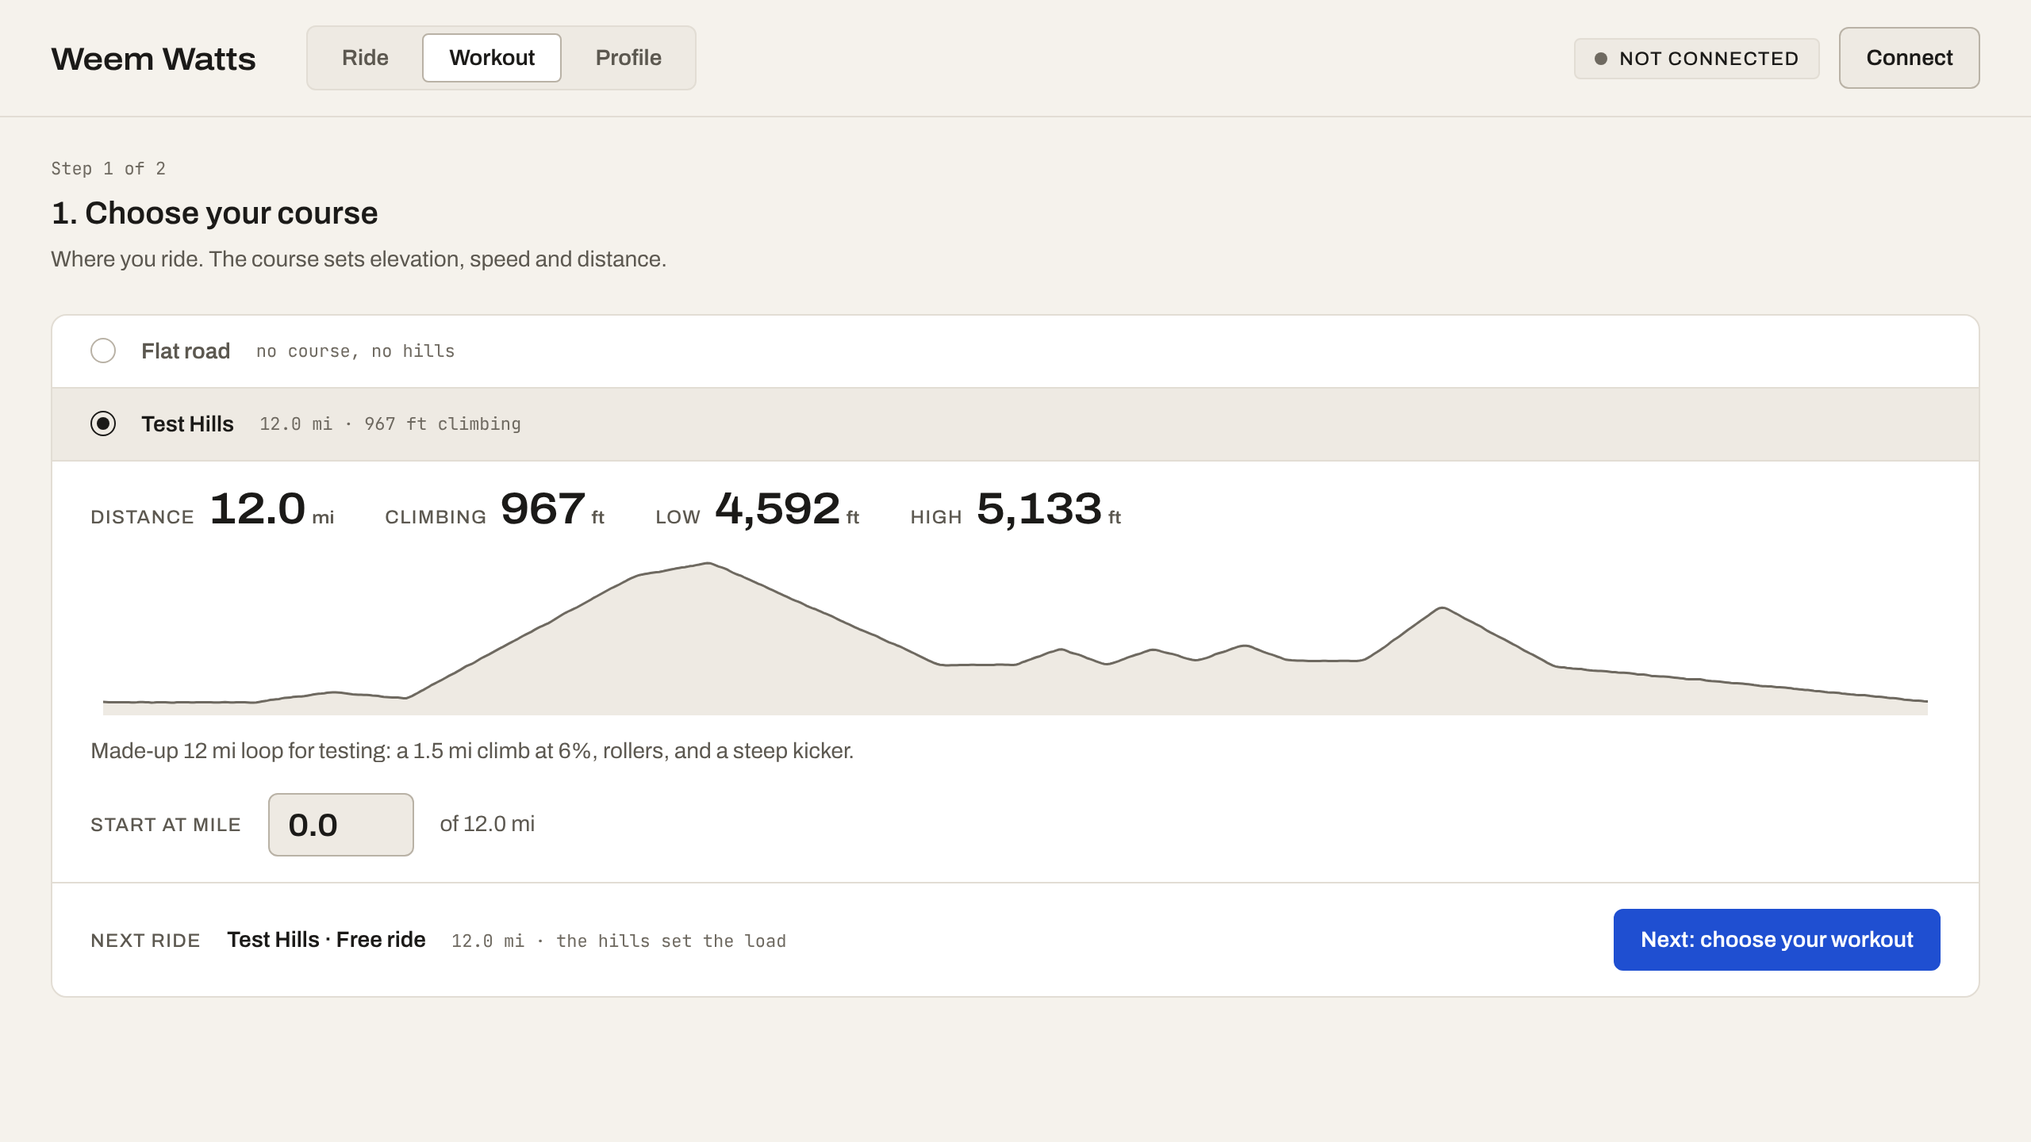
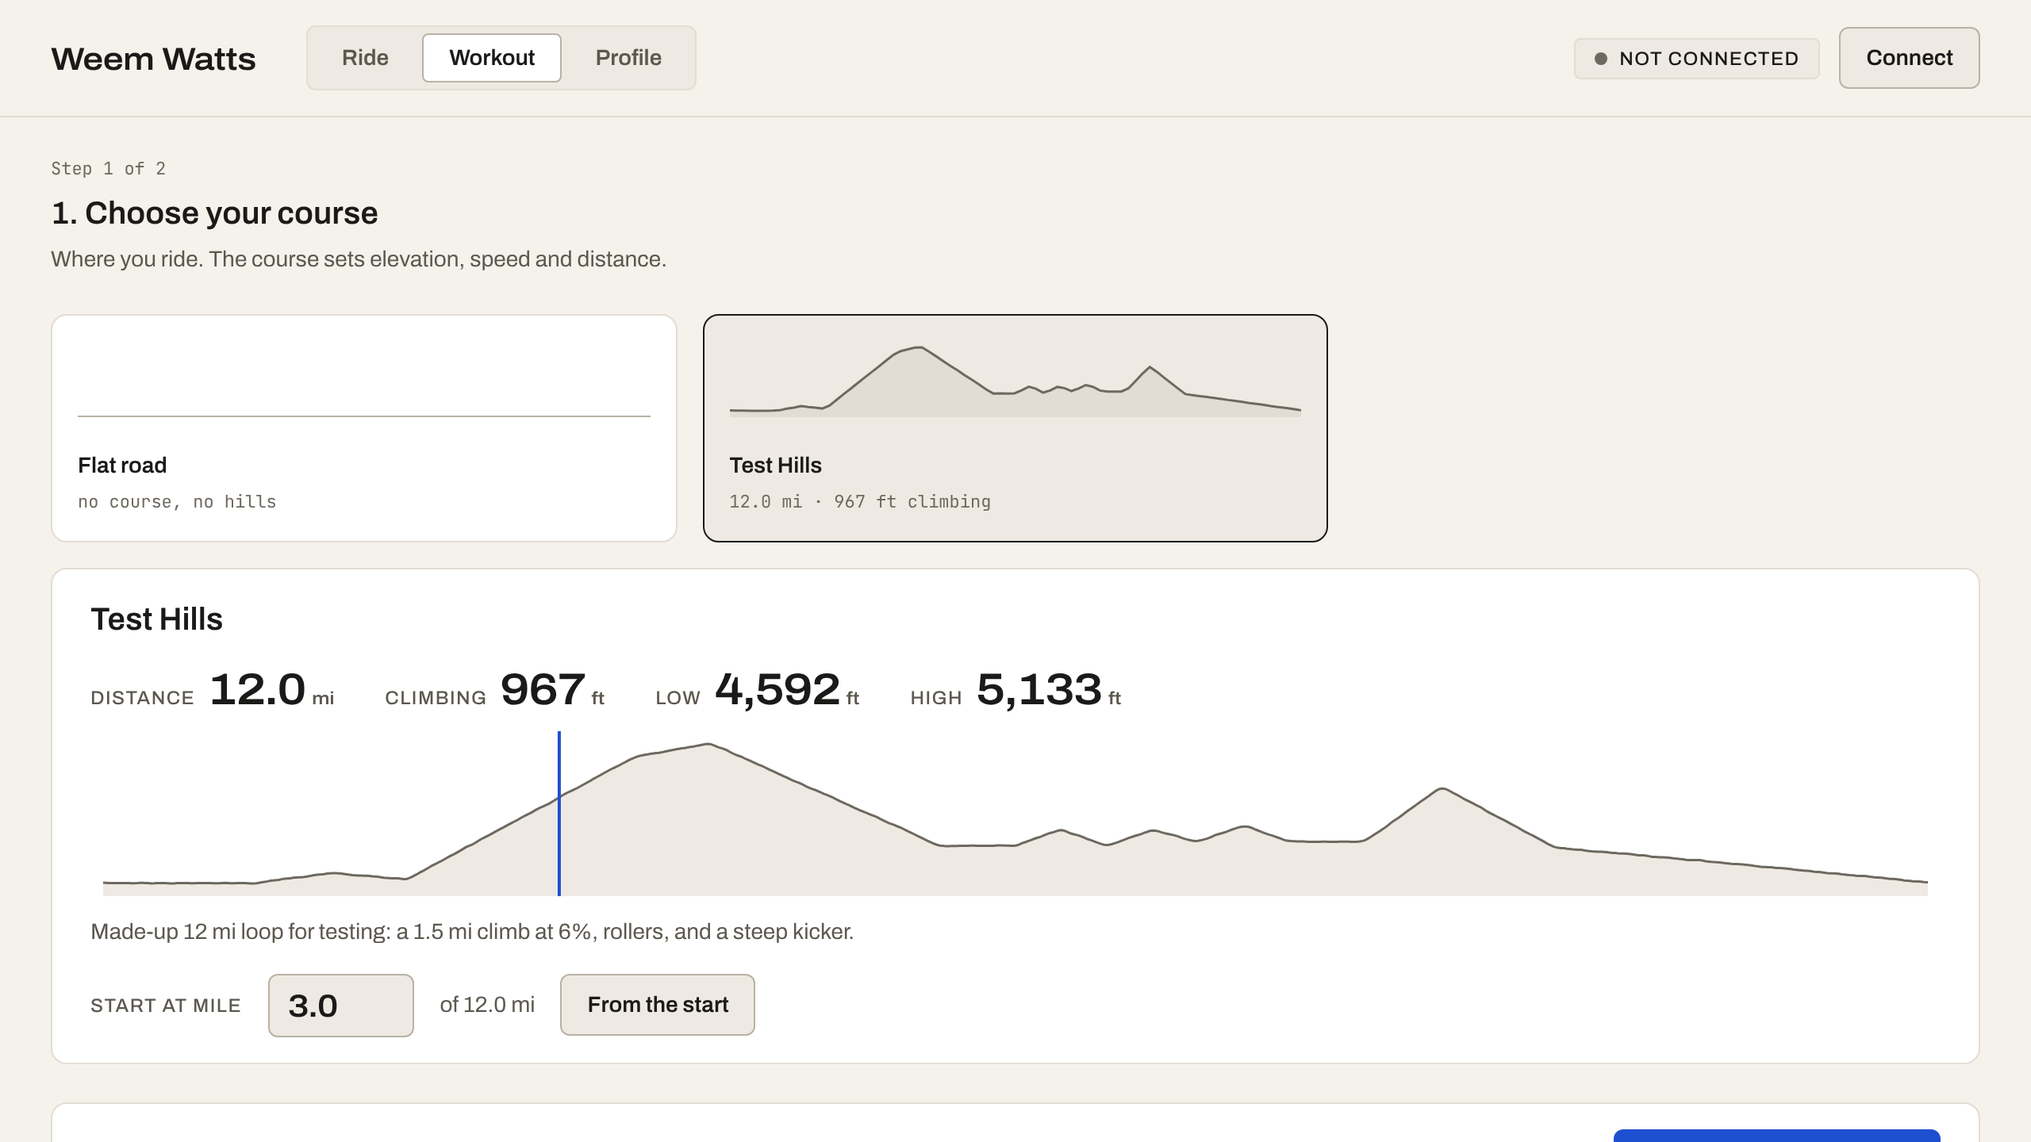
Course cards on step 1 of the Workout tab
Flat road and each course are cards with a small elevation profile, miles
and climbing, matching the workout library. The selected course's overview
and start mile show in a panel under the grid. PickerRow is no longer used
and is removed. DESIGN.md and README updated.

Claude-Session: https://claude.ai/code/session_01Fy45Q5RpT8Z5DRRNkBTc4N

diff --git a/src/components/CoursePicker.tsx b/src/components/CoursePicker.tsx
@@ -3,7 +3,30 @@ import { METERS_PER_MILE } from '../lib/physics'
 import type { CourseLive, CourseOption } from '../lib/ride'
 import { Button } from './Button'
 import { CourseOverview } from './CourseOverview'
-import { PickerRow } from './PickerRow'
+
+const CARD = 'ww-press flex min-h-[9rem] cursor-pointer flex-col justify-between gap-3 rounded-lg border p-4 text-left'
+/** Keep a near-flat course from looking like a mountain on its card. */
+const MIN_RANGE_M = 15
+
+/** The course's elevation as a small filled line, the course twin of the workout card's strip. */
+function CardProfile({ points, onRaised }: { points: [number, number][]; onRaised: boolean }) {
+  const last = points[points.length - 1]?.[0] || 1
+  let lo = Infinity
+  let hi = -Infinity
+  for (const [, e] of points) {
+    lo = Math.min(lo, e)
+    hi = Math.max(hi, e)
+  }
+  const range = Math.max(MIN_RANGE_M, hi - lo)
+  const base = lo - (range - (hi - lo)) / 2
+  const line = points.map(([s, e], i) => `${i === 0 ? 'M' : 'L'}${((s / last) * 100).toFixed(2)},${(44 - ((e - base) / range) * 40).toFixed(2)}`).join('')
+  return (
+    <svg viewBox="0 0 100 48" preserveAspectRatio="none" className="ww-profile-compact block w-full" aria-hidden>
+      <path d={`${line}L100,48L0,48Z`} fill={onRaised ? 'var(--ww-line)' : 'var(--ww-raised)'} />
+      <path d={line} fill="none" stroke="var(--ww-fg-subtle)" strokeWidth={1.5} vectorEffect="non-scaling-stroke" />
+    </svg>
+  )
+}
 
 interface CoursePickerProps {
   courses: CourseOption[]
@@ -13,7 +36,10 @@ interface CoursePickerProps {
   onStartMi: (mi: number) => void
 }
 
-/** Step 1 on the Workout tab: a flat road or a course. The selected course opens its overview and start mile. */
+/**
+ * Step 1 on the Workout tab: a flat road or a course, as cards with a small
+ * elevation profile. The selected course's overview and start mile show under the grid.
+ */
 export function CoursePicker({ courses, loaded, selected, onSelect, onStartMi }: CoursePickerProps) {
   const [startText, setStartText] = useState('')
   const startMi = selected?.startMi ?? 0
@@ -31,54 +57,80 @@ export function CoursePicker({ courses, loaded, selected, onSelect, onStartMi }:
   const lengthMi = selected ? selected.course.lengthM / METERS_PER_MILE : 0
 
   return (
-    <div role="radiogroup" aria-label="Course">
-      <PickerRow checked={!selected} onClick={() => onSelect(null)} title="Flat road" meta="no course, no hills" />
-      {!loaded && <div className="border-t border-line px-6 py-3 text-fg-subtle">Loading courses</div>}
-      {courses.map((c) => (
-        <PickerRow
-          key={c.id}
-          checked={selected?.course.id === c.id}
-          onClick={() => onSelect(c.id)}
-          title={c.name}
-          meta={`${c.lengthMi.toFixed(1)} mi · ${Math.round(c.ascentFt).toLocaleString()} ft climbing${
-            c.source === 'imported' ? ' · imported' : ''
-          }`}
+    <div className="flex flex-col gap-4">
+      <div role="radiogroup" aria-label="Course" className="grid grid-cols-2 gap-4 xl:grid-cols-3 2xl:grid-cols-4">
+        <button
+          type="button"
+          role="radio"
+          aria-checked={!selected}
+          aria-label="Flat road, no course, no hills"
+          onClick={() => onSelect(null)}
+          className={`${CARD} ${!selected ? 'border-fg bg-raised' : 'border-line bg-surface hover:bg-bg'}`}
         >
-          {selected?.course.id === c.id && (
-            <div className="flex flex-col gap-4">
-              <CourseOverview course={selected.course} startMi={startMi} />
-              <div className="flex flex-wrap items-center gap-4">
-                <label htmlFor="start-mi" className="ww-label">
-                  Start at mile
-                </label>
-                <input
-                  id="start-mi"
-                  type="number"
-                  inputMode="decimal"
-                  min={0}
-                  max={Math.max(0, lengthMi - 0.1)}
-                  step={0.1}
-                  value={startText}
-                  onChange={(e) => setStartText(e.target.value)}
-                  onBlur={commitStart}
-                  onKeyDown={(e) => {
-                    if (e.key === 'Enter') (e.target as HTMLInputElement).blur()
-                    e.stopPropagation()
-                  }}
-                  className="ww-num w-[7ch] rounded-md border border-line-strong bg-raised px-3 py-2 text-title text-fg"
-                />
-                <span className="text-fg-muted">of {lengthMi.toFixed(1)} mi</span>
-                {startMi > 0 && <Button onClick={() => onStartMi(0)}>From the start</Button>}
-                {selected.lastEndMi !== null && (
-                  <span className="font-mono text-mono text-fg-subtle">
-                    last ride ended at mile {selected.lastEndMi.toFixed(1)}
-                  </span>
-                )}
-              </div>
-            </div>
-          )}
-        </PickerRow>
-      ))}
+          <span className="ww-profile-compact flex items-end">
+            <span className="w-full border-b border-line-strong" />
+          </span>
+          <span className="flex flex-col gap-1">
+            <span className="font-semibold text-fg">Flat road</span>
+            <span className="font-mono text-mono text-fg-subtle">no course, no hills</span>
+          </span>
+        </button>
+        {courses.map((c) => {
+          const checked = selected?.course.id === c.id
+          return (
+            <button
+              key={c.id}
+              type="button"
+              role="radio"
+              aria-checked={checked}
+              onClick={() => onSelect(c.id)}
+              className={`${CARD} ${checked ? 'border-fg bg-raised' : 'border-line bg-surface hover:bg-bg'}`}
+            >
+              <CardProfile points={c.profile} onRaised={checked} />
+              <span className="flex min-w-0 flex-col gap-1">
+                <span className="truncate font-semibold text-fg">{c.name}</span>
+                <span className="truncate font-mono text-mono text-fg-subtle">
+                  {c.lengthMi.toFixed(1)} mi · {Math.round(c.ascentFt).toLocaleString()} ft climbing
+                  {c.source === 'imported' ? ' · imported' : ''}
+                </span>
+              </span>
+            </button>
+          )
+        })}
+      </div>
+      {!loaded && <p className="text-fg-subtle">Loading courses</p>}
+      {selected && (
+        <section aria-label="Course overview" className="flex flex-col gap-4 rounded-lg border border-line bg-surface px-6 py-4">
+          <h2 className="text-title font-semibold text-fg">{selected.course.name}</h2>
+          <CourseOverview course={selected.course} startMi={startMi} />
+          <div className="flex flex-wrap items-center gap-4">
+            <label htmlFor="start-mi" className="ww-label">
+              Start at mile
+            </label>
+            <input
+              id="start-mi"
+              type="number"
+              inputMode="decimal"
+              min={0}
+              max={Math.max(0, lengthMi - 0.1)}
+              step={0.1}
+              value={startText}
+              onChange={(e) => setStartText(e.target.value)}
+              onBlur={commitStart}
+              onKeyDown={(e) => {
+                if (e.key === 'Enter') (e.target as HTMLInputElement).blur()
+                e.stopPropagation()
+              }}
+              className="ww-num w-[7ch] rounded-md border border-line-strong bg-raised px-3 py-2 text-title text-fg"
+            />
+            <span className="text-fg-muted">of {lengthMi.toFixed(1)} mi</span>
+            {startMi > 0 && <Button onClick={() => onStartMi(0)}>From the start</Button>}
+            {selected.lastEndMi !== null && (
+              <span className="font-mono text-mono text-fg-subtle">last ride ended at mile {selected.lastEndMi.toFixed(1)}</span>
+            )}
+          </div>
+        </section>
+      )}
     </div>
   )
 }

diff --git a/src/lib/ride.ts b/src/lib/ride.ts
@@ -32,7 +32,7 @@ import {
   type SmoothingSeconds,
 } from '../config'
 import { bluetoothSupported, createBleTrainer } from './ble'
-import { elevationAt, gradeAt, type Course } from './course'
+import { elevationAt, gradeAt, type Course , profilePoints } from './course'
 import { importGpxFile, loadCourses, removeImportedCourse } from './courses'
 import { createFakeTrainer, isFakeMode } from './fakeTrainer'
 import { downloadFit } from './fit'
@@ -121,6 +121,19 @@ export interface CourseOption {
   description?: string
   lengthMi: number
   ascentFt: number
+  /** A light elevation profile, [meters along, meters up] pairs, for the small graph on the course's card. */
+  profile: [number, number][]
+}
+
+/** Card profiles are sampled once per course, not on every snapshot. */
+const cardProfiles = new WeakMap<Course, [number, number][]>()
+function cardProfile(c: Course): [number, number][] {
+  let pts = cardProfiles.get(c)
+  if (!pts) {
+    pts = profilePoints(c, 80)
+    cardProfiles.set(c, pts)
+  }
+  return pts
 }
 
 export interface CourseLive {
@@ -421,6 +434,7 @@ export class RideController {
         description: c.description,
         lengthMi: c.lengthM / METERS_PER_MILE,
         ascentFt: c.ascentM * FEET_PER_METER,
+        profile: cardProfile(c),
       })),
       coursesLoaded: this.coursesLoaded,
       course: this.courseLive(),

diff --git a/src/components/WorkoutPage.tsx b/src/components/WorkoutPage.tsx
@@ -105,15 +105,15 @@ export function WorkoutPage({
       </div>
       {notice}
       {step === 0 ? (
-        <section aria-label={STEPS[0].title} className="overflow-hidden rounded-lg border border-line bg-surface">
+        <>
           <CoursePicker courses={s.courses} loaded={s.coursesLoaded} selected={s.course} onSelect={onSelectCourse} onStartMi={onStartMi} />
-          <div className="flex flex-wrap items-center justify-between gap-4 border-t border-line px-6 py-4">
+          <div className="flex flex-wrap items-center justify-between gap-4 rounded-lg border border-line bg-surface px-6 py-4">
             {summary}
             <Button variant="primary" onClick={() => setStep(1)}>
               Next: choose your workout
             </Button>
           </div>
-        </section>
+        </>
       ) : (
         <>
           <WorkoutPicker

diff --git a/DESIGN.md b/DESIGN.md
@@ -82,7 +82,7 @@ For workout blocks and zone codes (v3.2). Each meets 3:1 on `surface`. Z2 is gra
 - **Top bar:** "Weem Watts" wordmark and the page tabs (Ride, Workout, Profile) left. StatusPill and the Connect / End Ride button right, on every page. Connect from another page jumps to Ride.
 - **Ride page (`#/`):** live data only: the ride panel, plus notices (recovery, errors). No pickers.
 - **Workout page (`#/workout`):** two steps, one at a time, under a mono "Step n of 2", the step title and one line of help. Locked from the first pedal stroke until New ride (the setup line only).
-  - **Step 1, the course:** one panel of radio rows split by hairlines (selected row is `raised`, hover is `bg`); the selected row opens the course overview and start mile. The footer row has the setup line left and Next (primary) right.
+  - **Step 1, the course:** a grid of cards on the page, the same card as step 2 (2 columns, 3 from 1280px, 4 from 1536px): Flat road first (a `line-strong` baseline where the profile would be), then one card per course with a small elevation profile (48px, `raised` fill, `fg-subtle` line), the name, and a mono line with miles, feet of climbing and source. The selected card is `raised` with an `fg` border. Under the grid, the selected course's overview in one panel: name, `CourseOverview`, and the start mile. Then the setup line in its own panel with Next (primary).
   - **Step 2, the workout library** (laid out after Zwift's Workouts page): a side menu on the left (All workouts, Custom, each with a mono count; the current one is a `surface` chip with a `line-strong` border, as in TabNav), then the filter row (Length and Difficulty, both SegmentedControl, and a mono count) over a grid of cards (2 columns, 3 from 1280px, 4 from 1536px). Cards sit straight on the page (`bg`), never inside a panel. The first card is always the Custom Workout tile (`raised`, `line-strong` border, a plus, the name at title size); then Free ride; then one card per workout: a small `WorkoutStrip` without labels (48px), the name, and a mono line with length, difficulty and source. The selected card is `raised` with an `fg` border. Picking a workout card opens its **overview** in place of the grid: one panel with ← All workouts and the name, `Stat inline` for duration and intervals, the buttons (Edit for a custom workout, Edit a copy, Delete with a `danger` confirm for the rider's own, and the primary Ride this workout), the description, and the strip at `ww-builder-graph` height. Under both, the setup line in its own panel with Back, and Done (primary) when no overview is open, so there is one primary per screen. No import buttons here.
 - **Workout builder (`#/workout/build`):** a side trip from the Workout tab (the Workout tab stays current in the top bar). One panel, laid out after Zwift's workout editor and drawn with this system's tokens. Top to bottom, split by hairlines: a header row (← Back, the workout's name as the title in `ww-title-field`, a mono note); the details (Description left, the Difficulty tag right); the block area (`BuilderGraph`: the selected block's fields in a bordered `surface` box right above it, the graph, the block palette on the right, then Undo, Delete block and the key hint); the bottom bar (Display: % FTP / Watts, `Stat inline` for workout duration and intervals, a mono line, and the Step list toggle); the optional step list (`StepRow`, `RepeatGroup`, the add row); and a footer row with status text left and Save (primary) right. Back turns into `danger` "Discard changes" on the first click when there is unsaved work. The page may scroll. Locked mid-ride (one line in a panel).
 - **Profile page (`#/profile`):** the rider panel, then "Your files": one panel with a Courses block and a Workouts block, each a heading, one line of help and its buttons (Import GPX; New workout and Import ZWO), followed by the rider's own files as rows: a custom workout has Edit and Remove (Remove asks twice, `danger` "Confirm remove"), an imported workout has Edit a copy and Remove, an imported course has Remove.
@@ -107,8 +107,7 @@ For workout blocks and zone codes (v3.2). Each meets 3:1 on `surface`. Z2 is gra
 | `BuilderGraph` | The builder's block canvas at `ww-builder-graph` height (264px): a `raised` plot with `line-strong` zone lines, Z1 to Z6 codes and time ticks in mono `fg-muted`; each block's width is time, height is % FTP and fill is its zone token, ramps sloped, `surface` hairlines between blocks. The selected block has a 2px `fg` outline; the same outline is its focus ring. A drop position is a 2px `fg` line. Cobalt is never used here. A cadence target shows as a mono note on a `surface` chip at the foot of the block. Beside the graph, the palette: small `raised` buttons, each a 28 by 16 swatch (zone color, slope or bars) and its name (Z1 to Z6, Warm up, Cool down, Intervals, Cadence). Click adds after the selected block; drag drops at a spot. Drag a block's top edge for power, right edge for time, body to move or onto Delete block. Keys on a block: ← → select, ↑ ↓ power, Shift + ← → time, Alt + ← → move, Delete, Ctrl + D, Ctrl + Z. |
 | `StepRow` | One step in the builder's step list (the typed view of the same blocks, behind the Step list toggle), one line on the shared grid (`.ww-step-row`): mono step number, Steady / Ramp `SegmentedControl`, time, target (two fields and an arrow for a ramp) followed by a mono echo of what it comes to at the rider's FTP (zone code and the other unit), cadence, label, then small buttons: ↑, ↓, Copy, Delete. Alt + ↑ / ↓ moves the row, Ctrl + D duplicates it; focus stays with the row. |
 | `RepeatGroup` | A repeat in the builder: a header row (number, "Repeat", a count field, "times", a mono summary, the same row buttons), then its steps numbered 2.1, 2.2 and set in from a `line-strong` rule, then small Add step to repeat / Add ramp to repeat buttons. Indentation and the rule group it; never a nested panel. |
-| `PickerRow` | One radio row in the course picker's panel: dot, title, mono meta (truncates). Its children show under the selected row as a detail card. |
-| `CoursePicker` | Step 1: flat road or a course (radio rows). The selected course opens `CourseOverview` and the start-mile input. |
+| `CoursePicker` | Step 1: Flat road or a course, as cards (`role="radio"`) with a small elevation profile. The selected course opens `CourseOverview` and the start-mile input in a panel under the grid. |
 | `CourseOverview` | The route at a glance: distance, climbing, low and high (`Stat inline`) over an elevation profile at `ww-profile` height (`raised` fill, `fg-subtle` line). A Cobalt hairline marks a start mile above 0. |
 | `WorkoutPicker` | Step 2: the workout library (side menu, filters, card grid led by the Custom Workout tile) and the selected workout's overview. See Layout. Cards are `role="radio"`; the picked workout stays listed whatever the filters say. |
 | `WorkoutStrip` | Every interval as a block: width is duration, height is % FTP, fill is the zone token (`z1` to `z7`), ramps sloped, `surface` hairlines between blocks. `labels={false}` drops the watt labels (the small graph on a workout card). Each block is labeled with its watts after intensity (ramps as start→end) in mono `fg-muted` above it, when the block is wide enough. The part done is washed with `surface` at 60%; a Cobalt line marks the position. |

diff --git a/README.md b/README.md
@@ -41,7 +41,7 @@ Open http://localhost:5173/?fake=1 and press **Connect**. A fake trainer sends p
 
 Open the **Workout** tab before connecting. It is two steps:
 
-1. **Choose your course.** A flat road or a course. Click a course to open its overview (distance, climbing, low and high points, the elevation profile) and set the start mile. Press **Next**.
+1. **Choose your course.** Cards: a flat road, then each course with a small elevation profile, its miles and climbing. Click a course and its overview opens under the cards (distance, climbing, low and high points, the full profile) with the start mile. Press **Next**.
 2. **Choose your workout.** A library of cards, each with a small graph of the workout. **Custom Workout** is the first card and opens the builder; **Free ride** is next. The side menu switches between **All workouts** and **Custom** (the ones you built or imported). Filter by **Length** and **Difficulty**. Click a card to open the workout's overview (graph, description, **Edit a copy**), then press **Ride this workout**.
 
 What sets the load:

diff --git a/docs/workout-builder.md b/docs/workout-builder.md
@@ -18,7 +18,7 @@ Nate's note: the step 2 list was crammed, the "+ New workout" row was too small,
 Calls:
 
 - **"New workout" is now "Custom Workout"** on the tile and on the Profile button. The builder's default title is still "New workout", as in Zwift's editor.
-- **The two steps stay.** The course is still step 1; a workout does not store a route. Step 1 keeps its list layout: there are only a few courses.
+- **The two steps stay.** The course is still step 1; a workout does not store a route. Step 1 is cards too (added later the same day at Nate's request): Flat road, then each course with a small elevation profile; the selected course's overview and start mile sit under the grid.
 - **Free ride is a card**, right after the Custom Workout tile.
 - **No Collections.** There are no plans or collections to show; Difficulty covers it.
 - **Cards sit on the page, not in a panel** (DESIGN.md bans nested panels). The tile is `raised`, not Cobalt: Cobalt never fills anything bigger than a button.
